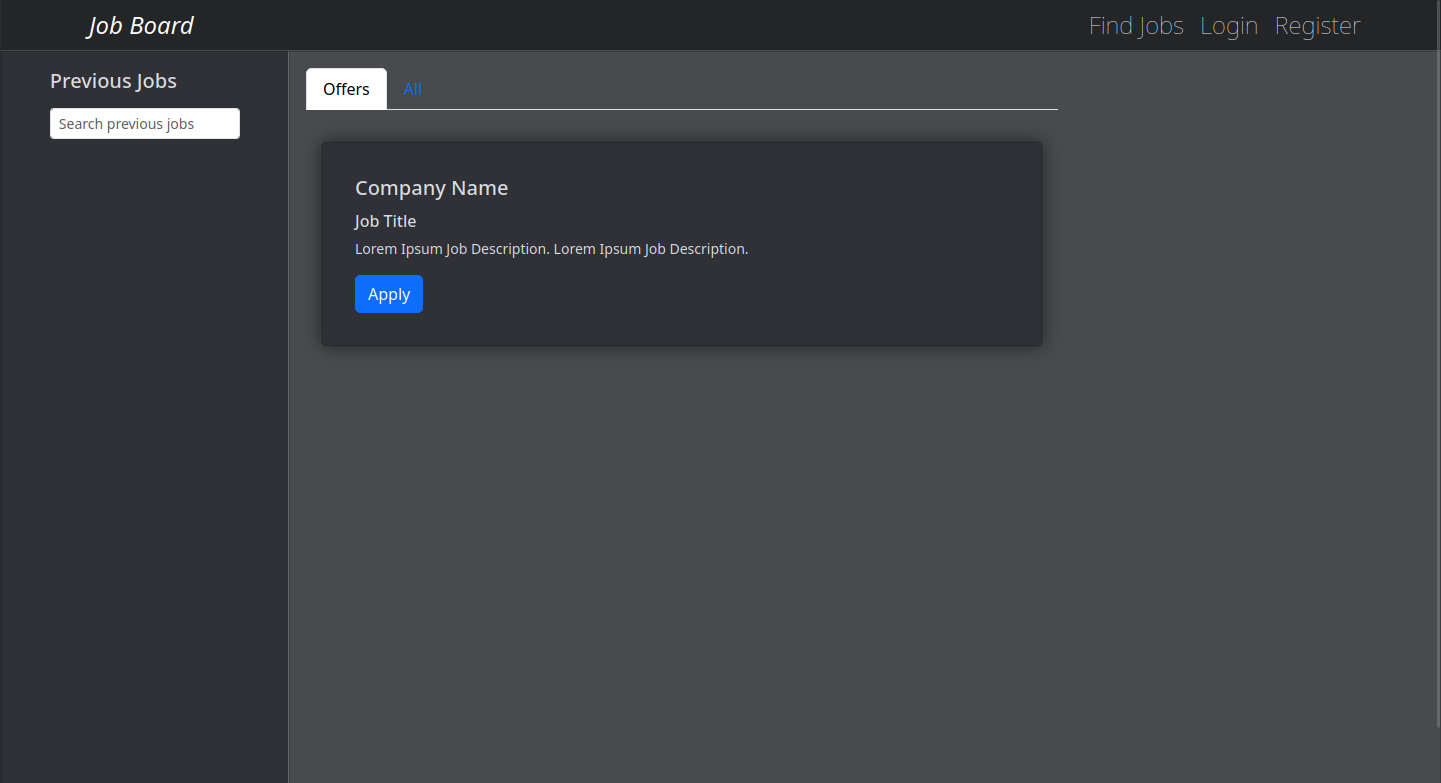
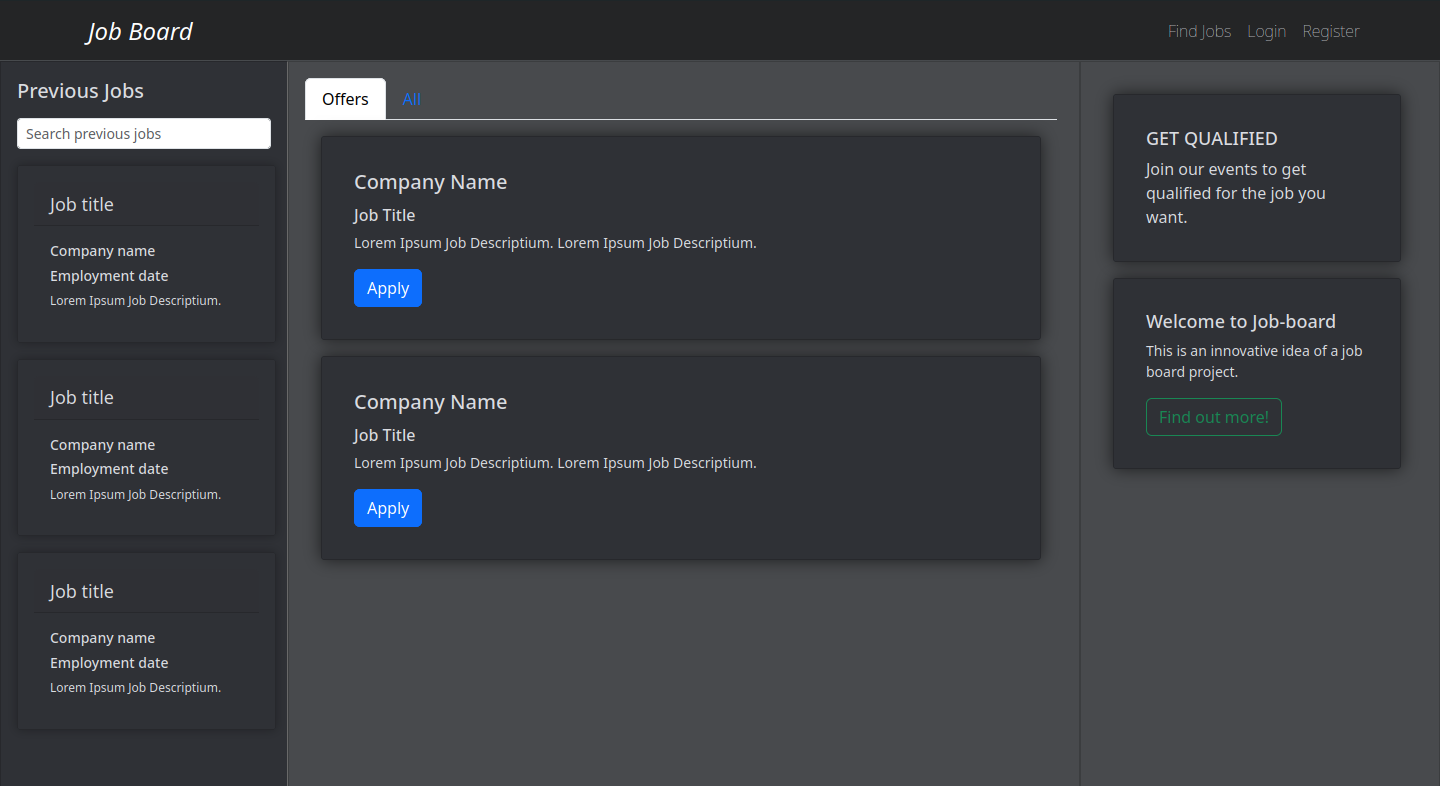
Finished designing /jobs for now

diff --git a/job-board-frontend/src/pages/FindJobs.js b/job-board-frontend/src/pages/FindJobs.js
@@ -9,36 +9,143 @@ import Tabs from 'react-bootstrap/Tabs';
 
 export default function FindJobs() {
     return (
-        <div className="card-container">
-                <Card className={"card-left"}>
+
+        <div className="general-card-container">
+
+            {/*previous jobs panel*/}
+
+                <Card className={"card-left"} style={{ textAlign: 'left' }}>
                     <Card.Body>
-                        <Card.Title style={{ textAlign: 'left' }} className={"mb-3"} >Previous Jobs</Card.Title>
+
+                        <Card.Title
+
+                                    className={"mb-3"} >
+
+                            Previous Jobs
+
+                        </Card.Title>
+
                         <Form.Control className={"mb-3"} size="sm" type="text" placeholder="Search previous jobs" />
+
+                        <Card className={"past-jobs-card"}>
+
+                            <Card.Header style={{fontSize:' 18px'}}>Job title</Card.Header>
+
+                            <Card.Body>
+                                <Card.Title style={{fontSize:' 14px'}}>
+                                    Company name
+                                </Card.Title>
+                                <Card.Title style={{fontSize:' 14px'}}>
+                                    Employment date
+                                </Card.Title>
+
+                                <Card.Text style={{fontSize:' 12px'}}>
+                                    Lorem Ipsum Job Descriptium.
+                                </Card.Text>
+
+                            </Card.Body>
+                        </Card>
+
+                        <Card className={"past-jobs-card"}>
+
+                            <Card.Header style={{fontSize:' 18px'}}>Job title</Card.Header>
+
+                            <Card.Body>
+                                <Card.Title style={{fontSize:' 14px'}}>
+                                    Company name
+                                </Card.Title>
+                                <Card.Title style={{fontSize:' 14px'}}>
+                                    Employment date
+                                </Card.Title>
+
+                                <Card.Text style={{fontSize:' 12px'}}>
+                                    Lorem Ipsum Job Descriptium.
+                                </Card.Text>
+
+                            </Card.Body>
+                        </Card>
+
+                        <Card className={"past-jobs-card"}>
+
+                            <Card.Header style={{fontSize:' 18px'}}>Job title</Card.Header>
+
+                            <Card.Body>
+                                <Card.Title style={{fontSize:' 14px'}}>
+                                    Company name
+                                </Card.Title>
+                                <Card.Title style={{fontSize:' 14px'}}>
+                                    Employment date
+                                </Card.Title>
+
+                                <Card.Text style={{fontSize:' 12px'}}>
+                                    Lorem Ipsum Job Descriptium.
+                                </Card.Text>
+
+                            </Card.Body>
+                        </Card>
+
+
                     </Card.Body>
+
                 </Card>
 
-                <Card className={"card-right"}>
+
+                {/*main job panel*/}
+
+                <Card className={"card-middle"}>
+
                 <Card.Body>
+
                     <Tabs
-                        defaultActiveKey="profile"
+                        defaultActiveKey="home"
                         id="uncontrolled-tab-example"
                         className="mb-3"
                     >
                         <Tab eventKey="home" title="Offers">
 
-                            <div className={"card-container"}>
-                                <Card className={"job-card"}>
+                            <div className={"main-jobs-panel-card-container"}>
+
+                                <Card className={"jobs-card"}>
+
                                     <Card.Body  style={{ textAlign: 'left' }} >
-                                        <Card.Title className={"mb-3"} >Company Name</Card.Title>
+
+                                        <Card.Title className="mb-3" >Company Name</Card.Title>
+
                                         <Card.Subtitle className="mb-2">Job Title</Card.Subtitle>
+
                                         <Card.Text style={{fontSize:'14px'}}>
-                                            Lorem Ipsum Job Description.
-                                            Lorem Ipsum Job Description.
+                                            Lorem Ipsum Job Descriptium.
+                                            Lorem Ipsum Job Descriptium.
                                         </Card.Text>
 
                                         <Button variant="primary">Apply</Button>
+
                                     </Card.Body>
+
+
+
                                 </Card>
+
+                                <Card className={"jobs-card"}>
+
+                                    <Card.Body  style={{ textAlign: 'left' }} >
+
+                                        <Card.Title className="mb-3" >Company Name</Card.Title>
+
+                                        <Card.Subtitle className="mb-2">Job Title</Card.Subtitle>
+
+                                        <Card.Text style={{fontSize:'14px'}}>
+                                            Lorem Ipsum Job Descriptium.
+                                            Lorem Ipsum Job Descriptium.
+                                        </Card.Text>
+
+                                        <Button variant="primary">Apply</Button>
+
+                                    </Card.Body>
+
+                                </Card>
+
+
                             </div>
 
 
@@ -58,7 +165,43 @@ export default function FindJobs() {
 
                     </Tabs>
                 </Card.Body>
+
             </Card>
+
+
+
+
+            {/*events panel*/}
+
+            <Card className={"card-right"}>
+                <Card.Body style={{ textAlign: 'left' }} >
+
+                    <Card className={"events-card"}>
+                        <Card.Body>
+                            <Card.Title style={{fontSize:'18px'}} >GET QUALIFIED</Card.Title>
+                            <Card.Text style={{fontSize:'14 px'}}>
+                                Join our events to get qualified for the job you want.
+                            </Card.Text>
+                        </Card.Body>
+                    </Card>
+
+                    <Card className={"events-card"}>
+                        <Card.Body>
+                            <Card.Title style={{fontSize:'18px'}} >Welcome to Job-board</Card.Title>
+                            <Card.Text style={{fontSize:'14px'}}>
+                                This is an innovative idea of a job board project.
+                            </Card.Text>
+
+                            <Button variant="outline-success" type={'sm'}>Find out more!</Button>
+                        </Card.Body>
+                    </Card>
+
+
+                </Card.Body>
+
+            </Card>
+
+
         </div>
 
     );

diff --git a/job-board-frontend/src/css/FindJobs.css b/job-board-frontend/src/css/FindJobs.css
@@ -6,7 +6,7 @@
     --border-radius: 3px;
 }
 
-.card-container {
+.general-card-container {
     display: flex;
 }
 
@@ -19,9 +19,24 @@
     margin: 0; /* Remove margins */
     padding: 0; /* Remove padding */
     display: flex;
-    align-items: center;
     box-shadow: none; /* Remove shadows */
     border-right: 1px solid dimgray; /* Change color and thickness */
+    overflow: hidden;
+}
+
+.card-middle {
+    background-color: var(--bg-secondary);
+    color: var(--text-color);
+    height: 100vh;
+    border-radius: 0; /* Remove rounded borders */
+    margin: 0; /* Remove margins */
+    padding: 0; /* Remove padding */
+    display: flex;
+    align-items: flex-start; /* Align contents to the top */
+    flex-grow: 1; /* Take remaining space */
+    box-shadow: none; /* Remove shadows */
+    width: 55vw; /* Set width to 65% of viewport width */
+    overflow: hidden;
 }
 
 .card-right {
@@ -35,9 +50,22 @@
     align-items: flex-start; /* Align contents to the top */
     flex-grow: 1; /* Take remaining space */
     box-shadow: none; /* Remove shadows */
+    width: 25vw; /* Set width to 15% of viewport width */
+    overflow: hidden;
 }
 
-.job-card {
+.past-jobs-card {
+    background-color: var(--bg-accent);
+    border-radius: var(--border-radius);
+    box-shadow: 0 0 10px rgba(0, 0, 0, 0.3);
+    color: var(--text-color);
+    margin: 0; /* Remove margins */
+    margin-bottom: 1rem;
+    padding: 1rem; /* Remove padding */
+    width: 18vw;
+}
+
+.jobs-card {
     background-color: var(--bg-accent);
     border-radius: var(--border-radius);
     box-shadow: 0 0 15px rgba(0, 0, 0, 0.6);
@@ -46,4 +74,16 @@
     margin: 1rem;
     width: 50vw;
 }
+
+.events-card {
+    background-color: var(--bg-accent);
+    border-radius: var(--border-radius);
+    box-shadow: 0 0 15px rgba(0, 0, 0, 0.6);
+    color: var(--text-color);
+    padding: 1rem;
+    margin: 1rem;
+    width: 20vw;
+}
+
+
 

diff --git a/job-board-frontend/src/layout/Navbar.js b/job-board-frontend/src/layout/Navbar.js
@@ -8,10 +8,10 @@ import '../css/Navbar.css';
 
 export default function Navbar() {
     return (
-        <BootstrapNavbar collapseOnSelect expand="lg" bg="tertiary" variant="light" className="navbar-brand">
+        <BootstrapNavbar collapseOnSelect expand="lg" bg="tertiary" variant="light" className="navbar fixed-top">
             <Container>
 
-                <BootstrapNavbar.Brand as={ Link } to="/" className="text-white">
+                <BootstrapNavbar.Brand as={ Link } to="/" className="navbar-brand text-white">
                     <i>Job Board</i>
                 </BootstrapNavbar.Brand>
 

diff --git a/job-board-frontend/src/css/Navbar.css b/job-board-frontend/src/css/Navbar.css
@@ -35,6 +35,8 @@
     height: var(--nav-size);
     width: 100%;
     border-bottom: var(--border);
+    position: sticky;
+    top: 0;
 }
 
 .navbar-nav .nav-link {

diff --git a/README.md b/README.md
@@ -5,10 +5,12 @@ I'm using react, axios, bootstrap, react-router-dom and I will probably add more
 
 ## Screenshots
 
+![Screenshot](job-board-frontend/images/FindJobs.png)
+
 ![Screenshot](job-board-frontend/images/LoginPage.png)
 
 
-![Screenshot](job-board-frontend/images/FindJobs.png)
+
 
 
 ## Table of Contents
